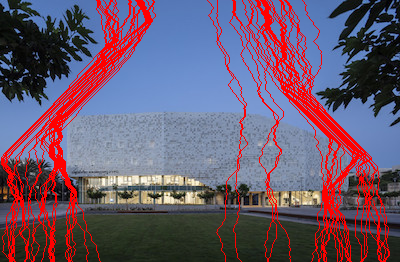
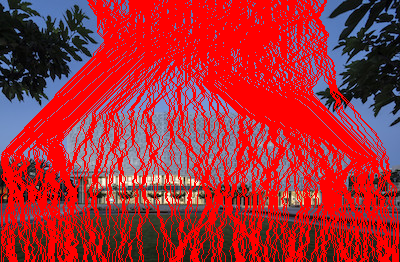
testing complete, works on all resizing and no resizing

diff --git a/seam_carving.py b/seam_carving.py
@@ -84,7 +84,7 @@ def resize(image: NDArray, out_height: int, out_width: int, forward_implementati
 
     # save for each cell its original row and column.
     _, originalColMat = np.indices((height, width))
-
+    # for the rotated image, we will need something like this:
     _, originalRowMat = np.indices((out_width, height))
     # every cell will be TRUE or FALSE, coloured in RED or not this will be in original height and width:
     verticalSeamMatMask = np.ones_like(grayscaleMat, dtype=bool)
@@ -94,6 +94,7 @@ def resize(image: NDArray, out_height: int, out_width: int, forward_implementati
     # @@@@@@@@@@@@@@@@@@@@@@  VERTICAL SEAMS  @@@@@@@@@@@@@@@@@@@@@@
     # Mark seams will update verticalSeamMatMask, will not change grayscaleMat, gradientMat, originalColMat
     outImageWithVerticalSeams = np.copy(image)
+
     if widthDiff != 0:
         markSeams(grayscaleMat, verticalSeamMatMask, gradientMat,
                   forward_implementation, originalColMat, np.abs(widthDiff))
@@ -117,17 +118,19 @@ def resize(image: NDArray, out_height: int, out_width: int, forward_implementati
                                np.reshape(image[:, :, 2][verticalSeamMatMask], (height, out_width))))
             # showImage(newImage)
 
-    # rotate the image RGB
-    image = rotate_image_counter_clockwise(image)
-    # calculate new gradient and grayscale for the image - easier than rotating and reshaping
-    grayscaleMat = utils.to_grayscale(image)
-    gradientMat = utils.get_gradients(grayscaleMat)
-    # showImage(image)
+
 
     # @@@@@@@@@@@@@@@@@@@@@@  Horizontal SEAMS  @@@@@@@@@@@@@@@@@@@@@@
     # Mark seams will update horizontalSeamMatMask, will not change grayscaleMat, gradientMat, originalColMat
     outImageWithHorizontalSeams = np.copy(image)
+
     if heightDiff != 0:
+        # rotate the image RGB
+        image = rotate_image_counter_clockwise(image)
+        # calculate new gradient and grayscale for the image - easier than rotating and reshaping
+        grayscaleMat = utils.to_grayscale(image)
+        gradientMat = utils.get_gradients(grayscaleMat)
+        # showImage(image)
         markSeams(grayscaleMat, horizontalSeamMatMask, gradientMat,
                   forward_implementation, originalRowMat, np.abs(heightDiff))
         # add black lines to image
@@ -138,7 +141,7 @@ def resize(image: NDArray, out_height: int, out_width: int, forward_implementati
         # showImage(outImageWithHorizontalSeams)
 
         if heightDiff > 0:
-            # enlarge image
+            # enlarge image - notice we switched width and height , because its rotated!
             repeatMat = np.invert(horizontalSeamMatMask) + 1
             image = np.dstack(
                 (np.reshape(np.repeat(image[:, :, 0], repeatMat.flatten()), (out_width, out_height)),
@@ -148,14 +151,14 @@ def resize(image: NDArray, out_height: int, out_width: int, forward_implementati
             # showImage(image)
 
         if heightDiff < 0:
-            # shrink image
+            # shrink image  - notice we switched width and height , because its rotated!
             image = np.dstack((np.reshape(image[:, :, 0][horizontalSeamMatMask], (out_width, out_height)),
                                np.reshape(image[:, :, 1][horizontalSeamMatMask], (out_width, out_height)),
                                np.reshape(image[:, :, 2][horizontalSeamMatMask], (out_width, out_height))))
             # image = rotate_image_clockwise(image)
             # showImage(image)
 
-    image = rotate_image_clockwise(image)
+        image = rotate_image_clockwise(image)
 
     return {'resized': image, 'vertical_seams': outImageWithVerticalSeams,
             'horizontal_seams': outImageWithHorizontalSeams}
